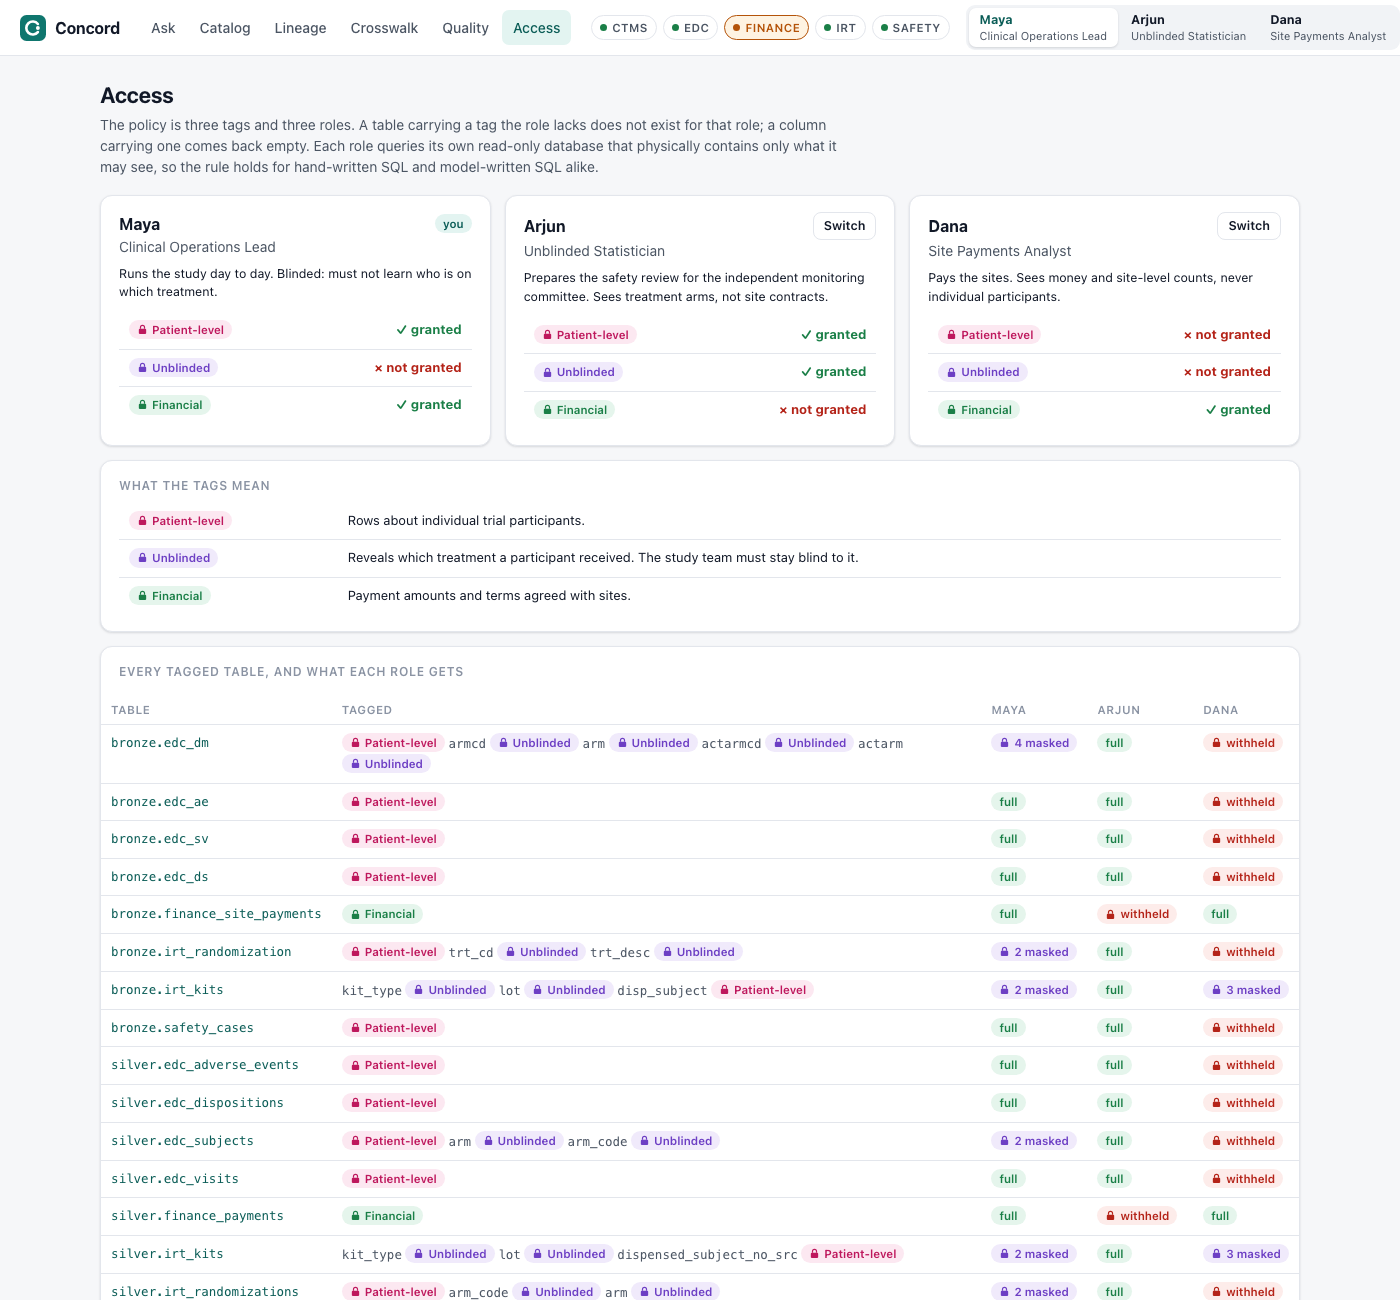
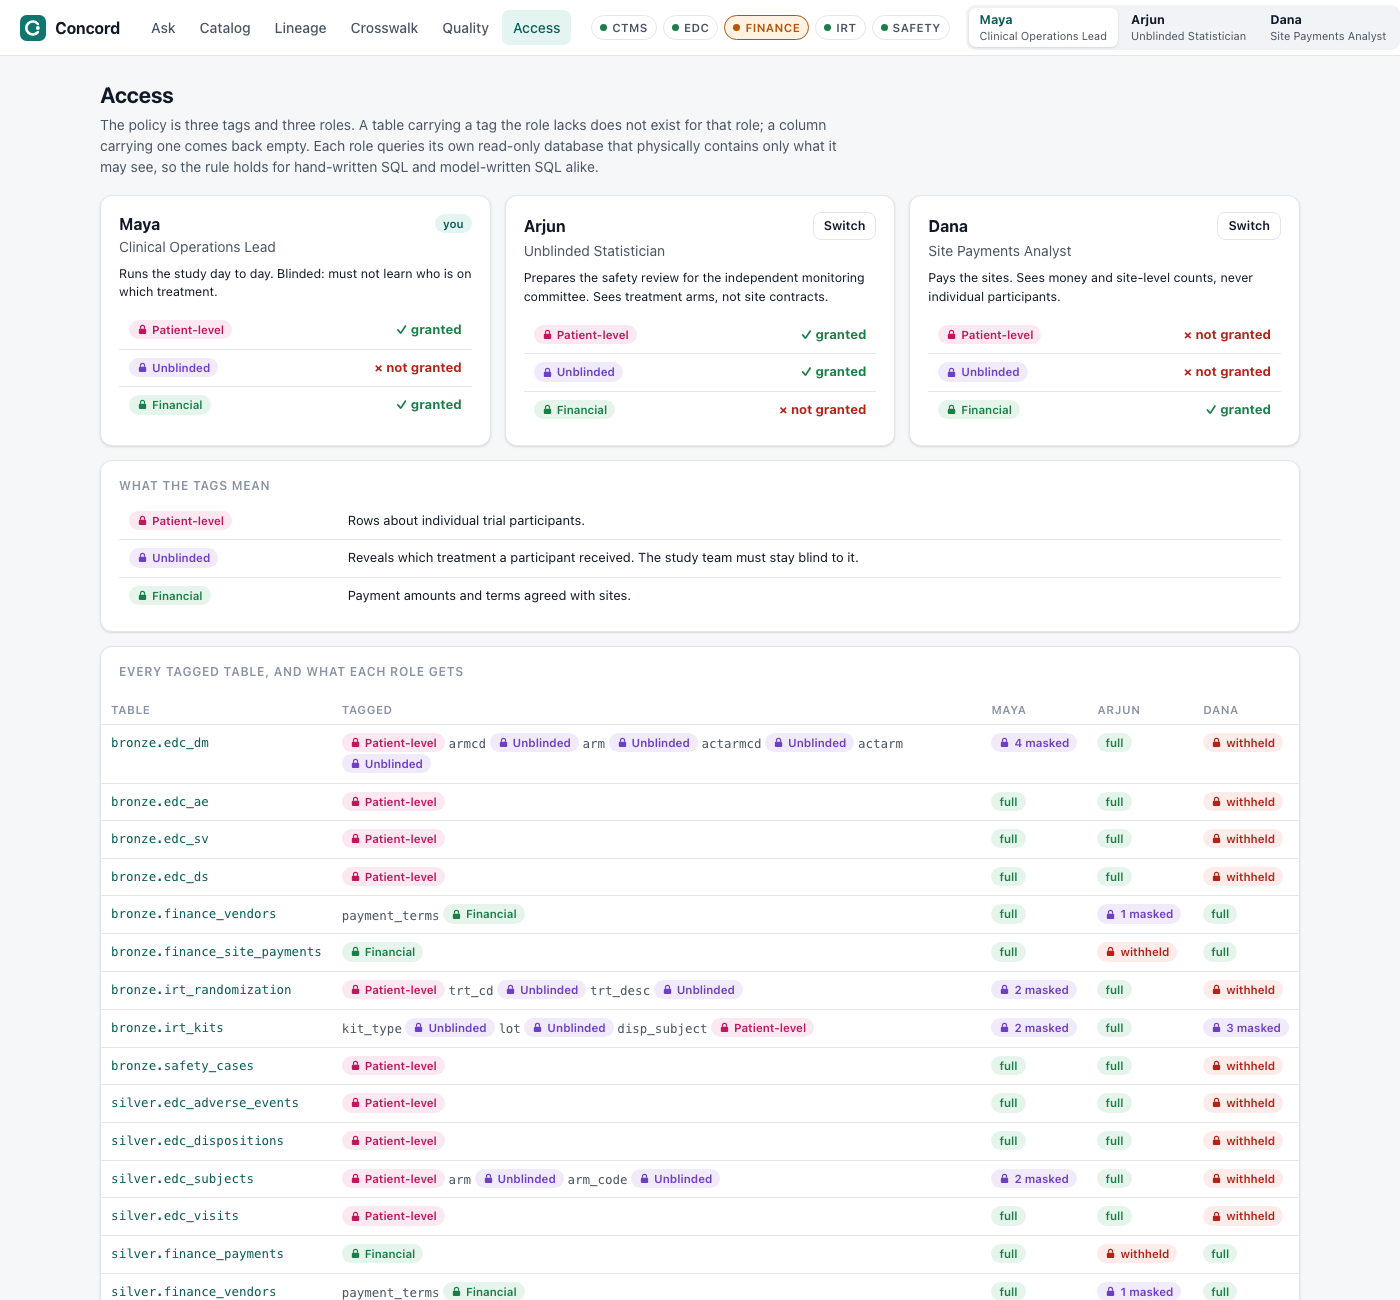
claude
What I fixed

  - Quality page leak. /api/quality sent the answer key's record keys (subject numbers, safety case ids, payment document numbers) to every role, including roles whose findings for those records were hidden. They are now withheld on the same
    terms as the findings; the scores stay visible.
  - Payment terms were readable by the statistician. The financial tag is defined as "payment amounts and terms agreed with sites", but payment_terms in the vendor master was untagged. I tagged it in scripts/simulate_feeds.py and the silver
    model, then regenerated the feeds; only feeds/finance/_manifest.json changed. Arjun's masked columns go from 5 to 7.
  - Timeout message. A query stopped at 15 seconds used to return INTERRUPT Error: Interrupted!. It now says the query ran too long and was stopped.
  - Empty query message. An empty query used to say "Exactly one statement is allowed". It now says there is no query to run.
  - Stale-feed wording. "24 days old (SLA 7 day)" now reads "SLA 7 days", on the answer warning and in the quality finding.
  - CLI. ask --role bogus crashed with a KeyError traceback and is now a normal usage error. ask also builds the warehouse on first use, as serve already did.
  - README clone command. git clone <this repo> is now the real URL from your origin remote.
[…]

diff --git a/tests/test_concord.py b/tests/test_concord.py
@@ -12,7 +12,7 @@ from pathlib import Path
 
 sys.path.insert(0, str(Path(__file__).resolve().parents[1]))
 
-from concord import ask, config, engine, policy, quality  # noqa: E402
+from concord import ask, config, engine, policy, quality, server  # noqa: E402
 from concord.pipeline import build  # noqa: E402
 
 SUMMARY = build(verbose=False)
@@ -83,8 +83,25 @@ def test_finance_role_sees_no_patient_rows_and_statistician_no_money():
     assert engine.execute("SELECT * FROM gold.fact_payment", "biostat")["denied"]
     r = engine.execute("SELECT site_key, overdue_usd FROM gold.site_360", "biostat")
     assert all(row[1] is None for row in r["rows"])
+    r = engine.execute("SELECT vendor_id, payment_terms FROM silver.finance_vendors", "biostat")
+    assert r["rows"] and all(row[1] is None for row in r["rows"]), "payment terms are financial"
     r = engine.execute("SELECT site_key, n_active, overdue_usd FROM gold.site_360", "finance")
     assert not r["error"] and any(row[2] for row in r["rows"]), "site-level aggregates stay available to finance"
+
+
+def test_pages_that_read_the_full_warehouse_withhold_what_the_role_may_not_see():
+    for role in policy.ROLES:
+        q = server.quality_view(role)
+        hidden = {r["rule_id"] for r in q["rules"] if r["hidden"]}
+        assert all(not r["failures"] for r in q["rules"] if r["hidden"]), role
+        for p in q["answer_key"]["planted"]:
+            assert (p["record_key"] is None) == (p["rule_id"] in hidden), (role, p["id"])
+        assert q["answer_key"]["n_planted"] == len(KEY["planted"]), "the score itself stays visible to every role"
+    finance = server.quality_view("finance")
+    assert any(r["hidden"] and r["n_failed"] for r in finance["rules"]), "finance must be told findings exist without seeing them"
+    assert not any(r["hidden"] for r in server.quality_view("clinops")["rules"])
+    assert all(g["example"] is None for g in server.crosswalk("finance")["subjects"]["groups"])
+    assert any(g["example"] for g in server.crosswalk("clinops")["subjects"]["groups"])
 
 
 def test_sandbox_rejects_everything_but_select_on_cataloged_tables():
@@ -93,7 +110,8 @@ def test_sandbox_rejects_everything_but_select_on_cataloged_tables():
                 "SELECT * FROM read_csv('feeds/irt/randomization.csv')",
                 "COPY gold.dim_site TO 'out.csv'",
                 "ATTACH 'build/warehouse.duckdb' AS wh",
-                "SELECT * FROM gold.no_such_table"]:
+                "SELECT * FROM gold.no_such_table",
+                ""]:
         r = engine.execute(sql, "finance")
         assert r["error"], sql
     con = engine.role_connection("finance")

diff --git a/concord/engine.py b/concord/engine.py
@@ -99,6 +99,8 @@ def preflight(sql: str, role: str) -> dict:
         statements = [s for s in sqlglot.parse(sql, dialect="duckdb") if s is not None]
     except sqlglot.errors.ParseError as e:
         raise QueryRejected(f"Could not parse the SQL: {str(e).splitlines()[0]}") from e
+    if not statements:
+        raise QueryRejected("There is no query to run. Write one SELECT statement.")
     if len(statements) != 1:
         raise QueryRejected("Exactly one statement is allowed.")
     tree = statements[0]
@@ -178,6 +180,9 @@ def execute(sql: str, role: str) -> dict:
         cur = con.execute(f"SELECT * FROM (\n{pre['sql']}\n) AS answer LIMIT {ROW_LIMIT + 1}")
         out["columns"] = [{"name": c[0], "type": str(c[1])} for c in cur.description]
         rows = cur.fetchall()
+    except duckdb.InterruptException:
+        out["error"] = f"The query ran for more than {TIMEOUT_SECONDS} seconds and was stopped. Narrow it down and try again."
+        return out
     except duckdb.Error as e:
         out["error"] = str(e).split("\n\n")[0]
         return out
@@ -217,6 +222,11 @@ def upstream_graph(targets: list[str]) -> dict:
     return {"nodes": nodes, "edges": [[s, d] for s, d in cat["edges"] if s in seen and d in seen], "targets": targets}
 
 
+def _days(hours: float) -> str:
+    n = round(hours / 24)
+    return f"{n} day{'' if n == 1 else 's'}"
+
+
 def answer_context(tables: list[str]) -> dict:
     """What a reader needs in order to trust an answer built from these tables."""
     cat = catalog()
@@ -234,7 +244,7 @@ def answer_context(tables: list[str]) -> dict:
     for f in feeds:
         if f["is_stale"]:
             warnings.append({"kind": "stale", "text": f"The {f['system']} feed is {f['age_hours'] / 24:.0f} days old "
-                             f"(SLA {f['freshness_sla_hours'] / 24:.0f} day). Anything recorded there since "
+                             f"(SLA {_days(f['freshness_sla_hours'])}). Anything recorded there since "
                              f"{f['extracted_at'][:10]} is not in this answer."})
     issues = [r for r in cat["rules"] if r["n_failed"] and r["dataset"] in upstream_ids and r["severity"] != "info"]
     if issues:

diff --git a/concord/server.py b/concord/server.py
@@ -193,6 +193,7 @@ def quality_view(role: str):
     score = quality.score_answer_key(con)
     con.close()
     planted_keys = {(p["rule_id"], p["record_key"]) for p in score["planted"]}
+    hidden_rules = set()
     rules = []
     for r in cat["rules"]:
         ds = cat["datasets"].get(r["dataset"])
@@ -200,6 +201,8 @@ def quality_view(role: str):
         found = failures.get(r["rule_id"], [])
         for f in found:
             f["planted"] = (r["rule_id"], f["record_key"]) in planted_keys
+        if a["denied"]:
+            hidden_rules.add(r["rule_id"])
         rules.append({**r, "hidden": policy.reason(a["denied_tags"], role) if a["denied"] else None,
                       "failures": [] if a["denied"] else found})
     order = {"critical": 0, "high": 1, "medium": 2, "low": 3, "info": 4}
@@ -216,8 +219,10 @@ def quality_view(role: str):
             n_planted = sum(1 for p in score["planted"] if p["rule_id"] == r["rule_id"])
             if r["n_failed"] > n_planted:
                 by_rule[r["rule_id"]] = {"title": r["title"], "n": r["n_failed"] - n_planted, "dataset": r["dataset"]}
+    # the answer key names the same records as the findings, so it is withheld on the same terms
+    planted = [{**p, "record_key": None, "hidden": True} if p["rule_id"] in hidden_rules else p for p in score["planted"]]
     return {"rules": rules, "dimensions": list(dims.values()), "feeds": list(cat["feeds"].values()),
-            "answer_key": {**score, "additional_by_rule": by_rule},
+            "answer_key": {**score, "planted": planted, "additional_by_rule": by_rule},
             "totals": {"rules": len(rules), "passing": sum(r["n_failed"] == 0 for r in rules),
                        "findings": sum(r["n_failed"] for r in rules)}}
 

diff --git a/concord/__main__.py b/concord/__main__.py
@@ -4,6 +4,14 @@ from __future__ import annotations
 import argparse
 import json
 
+from . import config, policy
+
+
+def _build_if_missing(verbose: bool = True) -> None:
+    if not config.WAREHOUSE.exists():
+        from .pipeline import build
+        build(verbose=verbose)
+
 
 def main() -> None:
     parser = argparse.ArgumentParser(prog="concord", description="One question across every clinical trial system.")
@@ -14,7 +22,7 @@ def main() -> None:
     serve.add_argument("--port", type=int, default=8040)
     ask = sub.add_parser("ask", help="ask a question from the terminal")
     ask.add_argument("question")
-    ask.add_argument("--role", default="clinops")
+    ask.add_argument("--role", default="clinops", choices=list(policy.ROLES))
     args = parser.parse_args()
 
     if args.command == "build":
@@ -23,14 +31,12 @@ def main() -> None:
     elif args.command == "serve":
         import uvicorn
 
-        from . import config
-        if not config.WAREHOUSE.exists():
-            from .pipeline import build
-            build()
+        _build_if_missing()
         print(f"\nConcord is running at http://{args.host}:{args.port}\n")
         uvicorn.run("concord.server:app", host=args.host, port=args.port, log_level="warning")
     elif args.command == "ask":
         from .ask import ask as run_ask
+        _build_if_missing(verbose=False)
         print(json.dumps(run_ask(args.question, args.role), indent=1, default=str))
 
 

diff --git a/concord/quality.py b/concord/quality.py
@@ -220,10 +220,11 @@ def run(con, feeds: list[dict], bronze_rows: dict[str, tuple[str, int, int]]) ->
 
     stale = [f for f in feeds if f["is_stale"]]
     for f in stale:
+        sla_days = round(f["freshness_sla_hours"] / 24)
         con.execute("INSERT INTO dq.failures VALUES (?, ?, ?, ?, NULL, NULL)",
                     ["fresh_feed_within_sla", f["system"],
                      f"extracted {f['extracted_at']}, {f['age_hours'] / 24:.0f} days before the snapshot; "
-                     f"SLA is {f['freshness_sla_hours'] / 24:.0f} day(s)", f["system"]])
+                     f"SLA is {sla_days} day{'' if sla_days == 1 else 's'}", f["system"]])
     short = [(path, t) for path, t in bronze_rows.items() if t[1] != t[2]]
     for path, (_, declared, loaded) in short:
         con.execute("INSERT INTO dq.failures VALUES (?, ?, ?, ?, ?, NULL)",

diff --git a/scripts/simulate_feeds.py b/scripts/simulate_feeds.py
@@ -103,6 +103,7 @@ CLASSIFICATION = {
     "irt/randomization.csv": {"tags": ["patient_level"], "column_tags": {"trt_cd": ["unblinded"], "trt_desc": ["unblinded"]}},
     "irt/kits.csv": {"column_tags": {"kit_type": ["unblinded"], "lot": ["unblinded"], "disp_subject": ["patient_level"]}},
     "safety/cases.json": {"tags": ["patient_level"]},
+    "finance/vendors.csv": {"column_tags": {"payment_terms": ["financial"]}},
     "finance/site_payments.csv": {"tags": ["financial"]},
 }
 

diff --git a/tests/CLAUDE.md b/tests/CLAUDE.md
@@ -1,6 +1,6 @@
 # tests
 
-One file, nine end-to-end checks. They assert what a judge or an auditor would want to be true,
+One file, ten end-to-end checks. They assert what a judge or an auditor would want to be true,
 not implementation details.
 
 ```bash
@@ -34,7 +34,8 @@ python -m pytest tests/test_concord.py -k headline -q         # one test
 | `test_role_databases_hold_nothing_the_policy_withholds` | In each role database, withheld tables are absent and masked columns hold no values |
 | `test_blinded_role_cannot_learn_the_arm_by_any_route` | Clinops gets NULL for the arm through bronze, silver and gold, including kit type |
 | `test_finance_role_sees_no_patient_rows_and_statistician_no_money` | The other two roles' boundaries, and that site-level aggregates stay available to finance |
-| `test_sandbox_rejects_everything_but_select_on_cataloged_tables` | Pre-flight refuses DDL, multiple statements, table functions, COPY, ATTACH; the role database itself also refuses file access and reconfiguration |
+| `test_pages_that_read_the_full_warehouse_withhold_what_the_role_may_not_see` | The Quality and Crosswalk routes read the unfiltered warehouse: findings, answer-key record keys and subject examples are withheld from a role exactly where the underlying table is, while the counts stay visible |
+| `test_sandbox_rejects_everything_but_select_on_cataloged_tables` | Pre-flight refuses an empty query, DDL, multiple statements, table functions, COPY, ATTACH; the role database itself also refuses file access and reconfiguration |
 | `test_trace_reaches_source_rows_and_respects_policy` | A site traces to all five systems with raw rows, and withheld blocks are reported as withheld |
 | `test_lineage_reaches_a_source_file_for_every_table` | Every table except `gold.snapshot` has a source file upstream |
 
@@ -43,7 +44,8 @@ python -m pytest tests/test_concord.py -k headline -q         # one test
 - A plain function named `test_*` with bare `assert` and a message that names what failed.
   No fixtures, parametrization or classes, so it keeps working under the plain runner.
 - Go through the public surface: `ask.ask`, `engine.execute`, `engine.trace`, `engine.catalog`,
-  `engine.role_connection`. Close any connection you open.
+  `engine.role_connection`, and the route functions in `server` (they are plain functions; no
+  HTTP client is needed). Close any connection you open.
 - Test the policy at both levels when it matters: what `engine.execute` reports, and what is
   physically in the role database.
 - When a model gains a column that reveals the treatment arm, or a new route to patient-level

diff --git a/concord/CLAUDE.md b/concord/CLAUDE.md
@@ -6,7 +6,7 @@ Read `../CLAUDE.md` first for commands and the rules that must not be broken.
 
 | Module | Role |
 |---|---|
-| `__main__.py` | CLI: `build`, `serve`, `ask`. Imports lazily so `build` does not need FastAPI |
+| `__main__.py` | CLI: `build`, `serve`, `ask`. Imports lazily so `build` does not need FastAPI. `serve` and `ask` build first when there is no warehouse |
 | `config.py` | Paths, `LAYERS`, `LINEAGE_COLUMNS`, `ID_MAPS`, `snapshot_date()`, `platform_now()`, `role_db()` |
 | `models.py` | Loads `models/**/*.sql`: parses the `-- @` header, reads dependencies out of the SQL with sqlglot, orders topologically |
 | `pipeline.py` | `build()`: bronze load, run models, quality, catalog (`meta.*`), role databases |
@@ -135,7 +135,8 @@ snapshot date, never `current_date`.
 
 Catalog metadata is deliberately visible to every role, including for tables whose data is
 withheld. What is hidden for a withheld table or masked column is the data and anything derived
-from it: preview rows, sample values, min and max, failure records.
+from it: preview rows, sample values, min and max, failure records, and the record keys in the
+answer key for rules whose findings are withheld.
 
 Handlers that use `engine.warehouse()` instead of `engine.role_connection(role)` are reading
 unfiltered data and must filter by policy before returning it. Prefer `role_connection`.

diff --git a/CLAUDE.md b/CLAUDE.md
@@ -18,12 +18,12 @@ python3 -m venv .venv && source .venv/bin/activate && pip install -r requirement
 python -m concord build                    # rebuild build/*.duckdb from feeds/ (about 1-2 s)
 python -m concord serve [--host H --port P] # default 127.0.0.1:8040
 python -m concord ask "Which sites are we late paying?" --role finance   # prints the result JSON
-python tests/test_concord.py               # all 9 tests, no test runner needed
+python tests/test_concord.py               # all 10 tests, no test runner needed
 ```
 
 - A virtual environment does not survive its folder being moved or renamed: `activate` keeps
   the old path and `python` is then not found. Recreate it, or call `.venv/bin/python` directly.
-- `serve` builds only when `build/warehouse.duckdb` is missing. After changing a model, a feed,
+- `serve` and `ask` build only when `build/warehouse.duckdb` is missing. After changing a model, a feed,
   a quality rule or the policy, run `build` yourself.
 - A running server picks up a rebuild without a restart (the catalog cache is keyed on the
   warehouse file's mtime). Changes to Python code need a restart; there is no `--reload`.

diff --git a/README.md b/README.md
@@ -24,7 +24,7 @@ Built for the Regeneron challenge at HackRU Fall 2026, starter sheet 40, *One So
 Needs Python 3.10 or newer. Nothing else: no database server, no Docker, no API key.
 
 ```bash
-git clone <this repo> && cd <this repo>
+git clone https://github.com/shon6360/HackRU-2026-Project.git && cd HackRU-2026-Project
 python3 -m venv .venv && source .venv/bin/activate
 pip install -r requirements.txt
 python -m concord serve
@@ -34,7 +34,7 @@ Open http://127.0.0.1:8040. The first start builds the warehouse from the commit
 
 ```bash
 python -m concord build          # rebuild the warehouse, catalog, quality results and role databases
-python tests/test_concord.py     # 9 end-to-end checks (also runs under pytest)
+python tests/test_concord.py     # 10 end-to-end checks (also runs under pytest)
 python -m concord ask "Which sites are we late paying?" --role finance
 ```
 

diff --git a/concord/models/CLAUDE.md b/concord/models/CLAUDE.md
@@ -80,7 +80,8 @@ Currently tagged, as a guide:
   so the kit tables stay usable for site-level supply questions.
 - `unblinded` (column): `arm`, `arm_code`, `kit_type`, `lot`. Kit type and lot reveal the arm.
 - `financial`: `fact_payment` and `silver.finance_payments` as tables; the five money columns of
-  `site_360` as columns, so the rest of `site_360` stays visible to everyone.
+  `site_360` as columns, so the rest of `site_360` stays visible to everyone; and `payment_terms`
+  in the vendor master as a column, so vendor names stay available for matching sites.
 
 A value derived from an unblinded column is unblinded unless you can argue otherwise in the
 description, as `edc_subjects.is_screen_failure` does. `tests/test_concord.py` checks specific

diff --git a/docs/CLAUDE.md b/docs/CLAUDE.md
@@ -20,7 +20,7 @@ summary with what is written:
 |---|---|
 | 25 planted problems, 25 caught | README, DATA, DEMO, DECK |
 | 29 further findings, 23 of them partial dates in the real CDISC data | README (29), DEMO and DECK (23) |
-| 27 quality rules, 28 SQL models, 9 tests | README, DECK |
+| 27 quality rules, 28 SQL models, 10 tests | README, DECK |
 | Crosswalk: 78 automatic, 2 queued, 3 unmatched | DECK |
 | Finance feed 24 days stale against a 7-day SLA | README, DATA, DEMO |
 | Two sites with all three problems; `S718` used in the walkthrough | README, DEMO |
